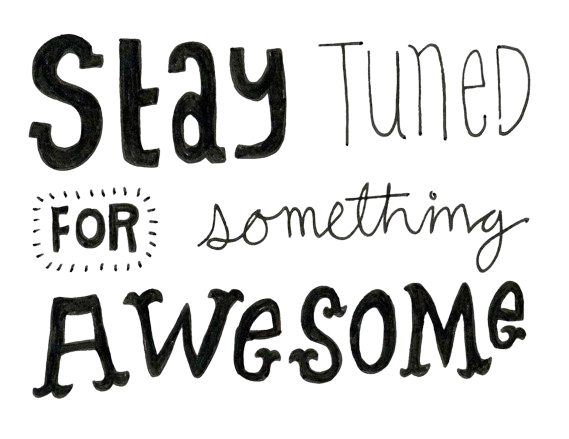
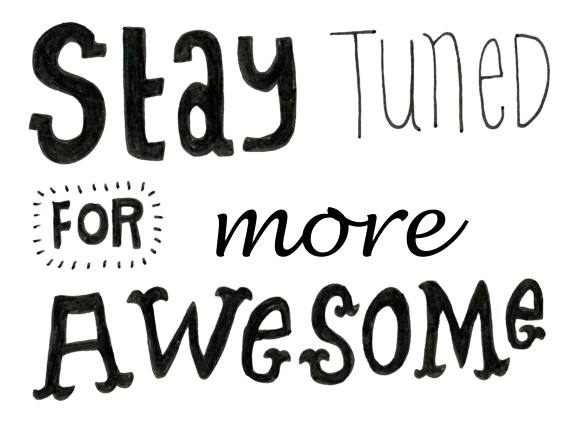
hover

diff --git a/src/app/gallery/gallery.component.ts b/src/app/gallery/gallery.component.ts
@@ -47,37 +47,61 @@ export class GalleryComponent {
           itemImageSrc: 'assets/engagement/303.jpg',
           thumbnailImageSrc: 'assets/engagement/303.jpg',
           alt: 'Description for Image 1',
-          title: 'Title 2'
+          title: 'Title 2',
+          width: 500,
+          height: 500,
+          cols: 1,
+          rows: 1
         },
         {
           itemImageSrc: 'assets/engagement/308.jpg',
           thumbnailImageSrc: 'assets/engagement/308.jpg',
           alt: 'Description for Image 1',
-          title: 'Title 3'
+          title: 'Title 3',
+          width: 100,
+          height: 500,
+          cols: 1,
+          rows: 3
         },
         {
           itemImageSrc: 'assets/engagement/322.jpg',
           thumbnailImageSrc: 'assets/engagement/322.jpg',
           alt: 'Description for Image 1',
-          title: 'Title 3'
+          title: 'Title 3',
+          width: 50,
+          height: 50,
+          cols: 1,
+          rows: 2
         },
         {
           itemImageSrc: 'assets/engagement/360.jpg',
           thumbnailImageSrc: 'assets/engagement/360.jpg',
           alt: 'Description for Image 1',
-          title: 'Title 3'
+          title: 'Title 3',
+          width: 50,
+          height: 50,
+          cols: 1,
+          rows: 1
         },
         {
           itemImageSrc: 'assets/engagement/371.jpg',
           thumbnailImageSrc: 'assets/engagement/371.jpg',
           alt: 'Description for Image 1',
-          title: 'Title 3'
+          title: 'Title 3',
+          width: 50,
+          height: 50,
+          cols: 1,
+          rows: 3
         },
         {
           itemImageSrc: 'assets/engagement/DSC_4411.jpg',
           thumbnailImageSrc: 'assets/engagement/DSC_4411.jpg',
           alt: 'Description for Image 1',
-          title: 'Title 3'
+          title: 'Title 3',
+          width: 50,
+          height: 50,
+          cols: 1,
+          rows: 1
         }
     ]
   }

diff --git a/src/app/gallery/gallery.component.html b/src/app/gallery/gallery.component.html
@@ -15,6 +15,10 @@
 -->
 
 <div  > 
+
+
+
+    <!--
 <p-galleria class="galleria" [value]="images1" [showItemNavigators]="true" verticalThumbnailViewPortHeight="30px" [responsiveOptions]="responsiveOptions" [containerStyle]="{ 'max-width': '640px' }" [numVisible]="5">
     <ng-template pTemplate="item" let-item >
         <div class="two">
@@ -30,6 +34,32 @@
     </ng-template>
 
 </p-galleria>
+-->
+
+
+<mat-grid-list cols="4" rowHeight="100px">
+    <mat-grid-tile
+        *ngFor="let tile of images1"
+        [colspan]="tile.cols"
+        [rowspan]="tile.rows"
+        (mouseenter)="tile.hover=true"
+        (mouseleave)="tile.hover=false">
+      <img src="{{tile.itemImageSrc}}" width="100%" height="100%">
+      <div *ngIf="tile.hover">Some text here</div>
+    </mat-grid-tile>
+  </mat-grid-list>
+
+<!--
+<div *ngFor="let item of images1" gdcolumns="repeat(auto-fill, minmax(200px, 1fr))">
+    <img  src="{{item.itemImageSrc}}" width="{{item.width}}" height="{{item.height}}"/>
+</div>
+-->
+
+
+
+
+
+
 
 </div>
 

diff --git a/src/app/app-routing.module.ts b/src/app/app-routing.module.ts
@@ -31,7 +31,7 @@ const routes: Routes = [
   { path: 'user', component: UserComponent},
   { path: 'eventdetails/:id', component: CommingSoonComponent},
   { path: 'help', component: CommingSoonComponent},
-  { path: 'gallery', component: CommingSoonComponent},
+  { path: 'gallery', component: GalleryComponent},
   { path: 'areas', component: AreasComponent},
   { path: 'activities', component: CommingSoonComponent},
   { path: 'faq', component: FaqComponent},

diff --git a/src/app/welcome/welcome.component.html b/src/app/welcome/welcome.component.html
@@ -37,7 +37,7 @@
     </div>
 
 
-    <img  class="terminal" fxFlex src="assets/console.png"/>
+    <img  class="terminal" fxFlex src="assets/computer_console.png"/>
 
    </div>
 
@@ -84,7 +84,7 @@
 
    </div> 
    <br/>
-    <img fxFlex src="assets/stay_tuned.png"/>
+    <img fxFlex class="tuned" src="assets/stay_tuned.png"/>
     
 
 

diff --git a/src/app/welcome/welcome.component.css b/src/app/welcome/welcome.component.css
@@ -36,3 +36,9 @@
   max-height: 100px;
   max-width: 150px;
 }
+
+
+.tuned {
+  max-width: 200px;
+  max-height: 200px;
+}
